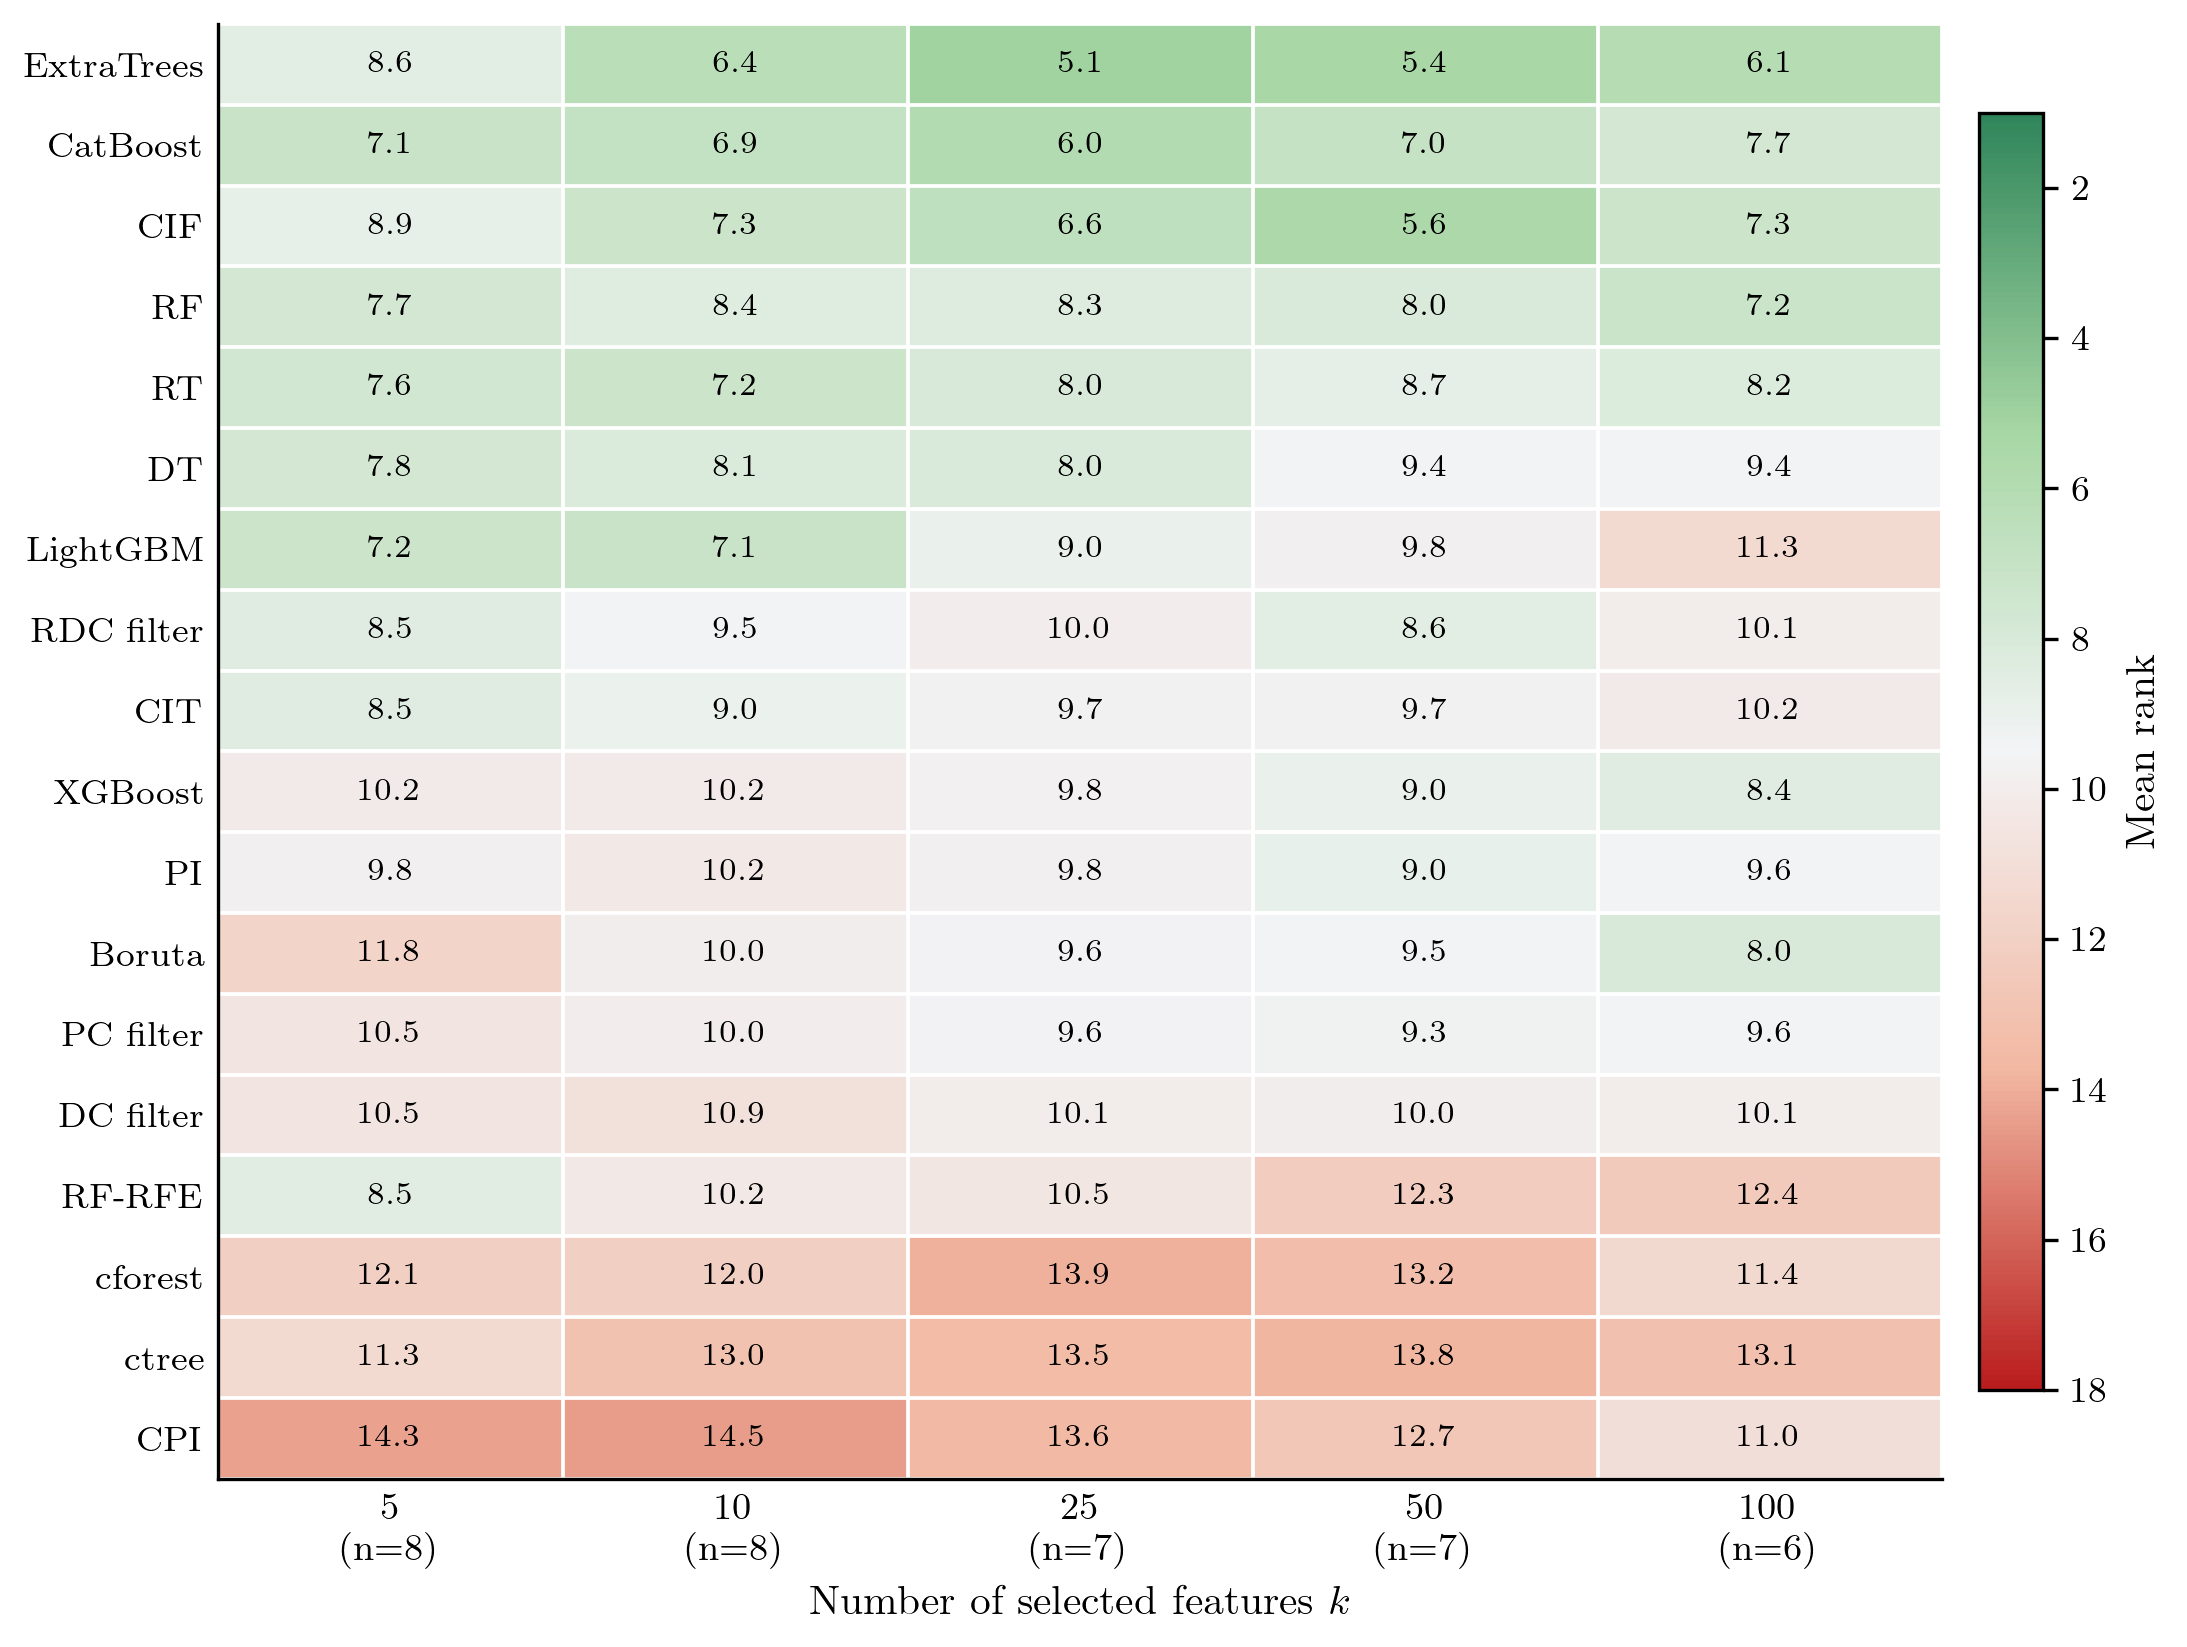
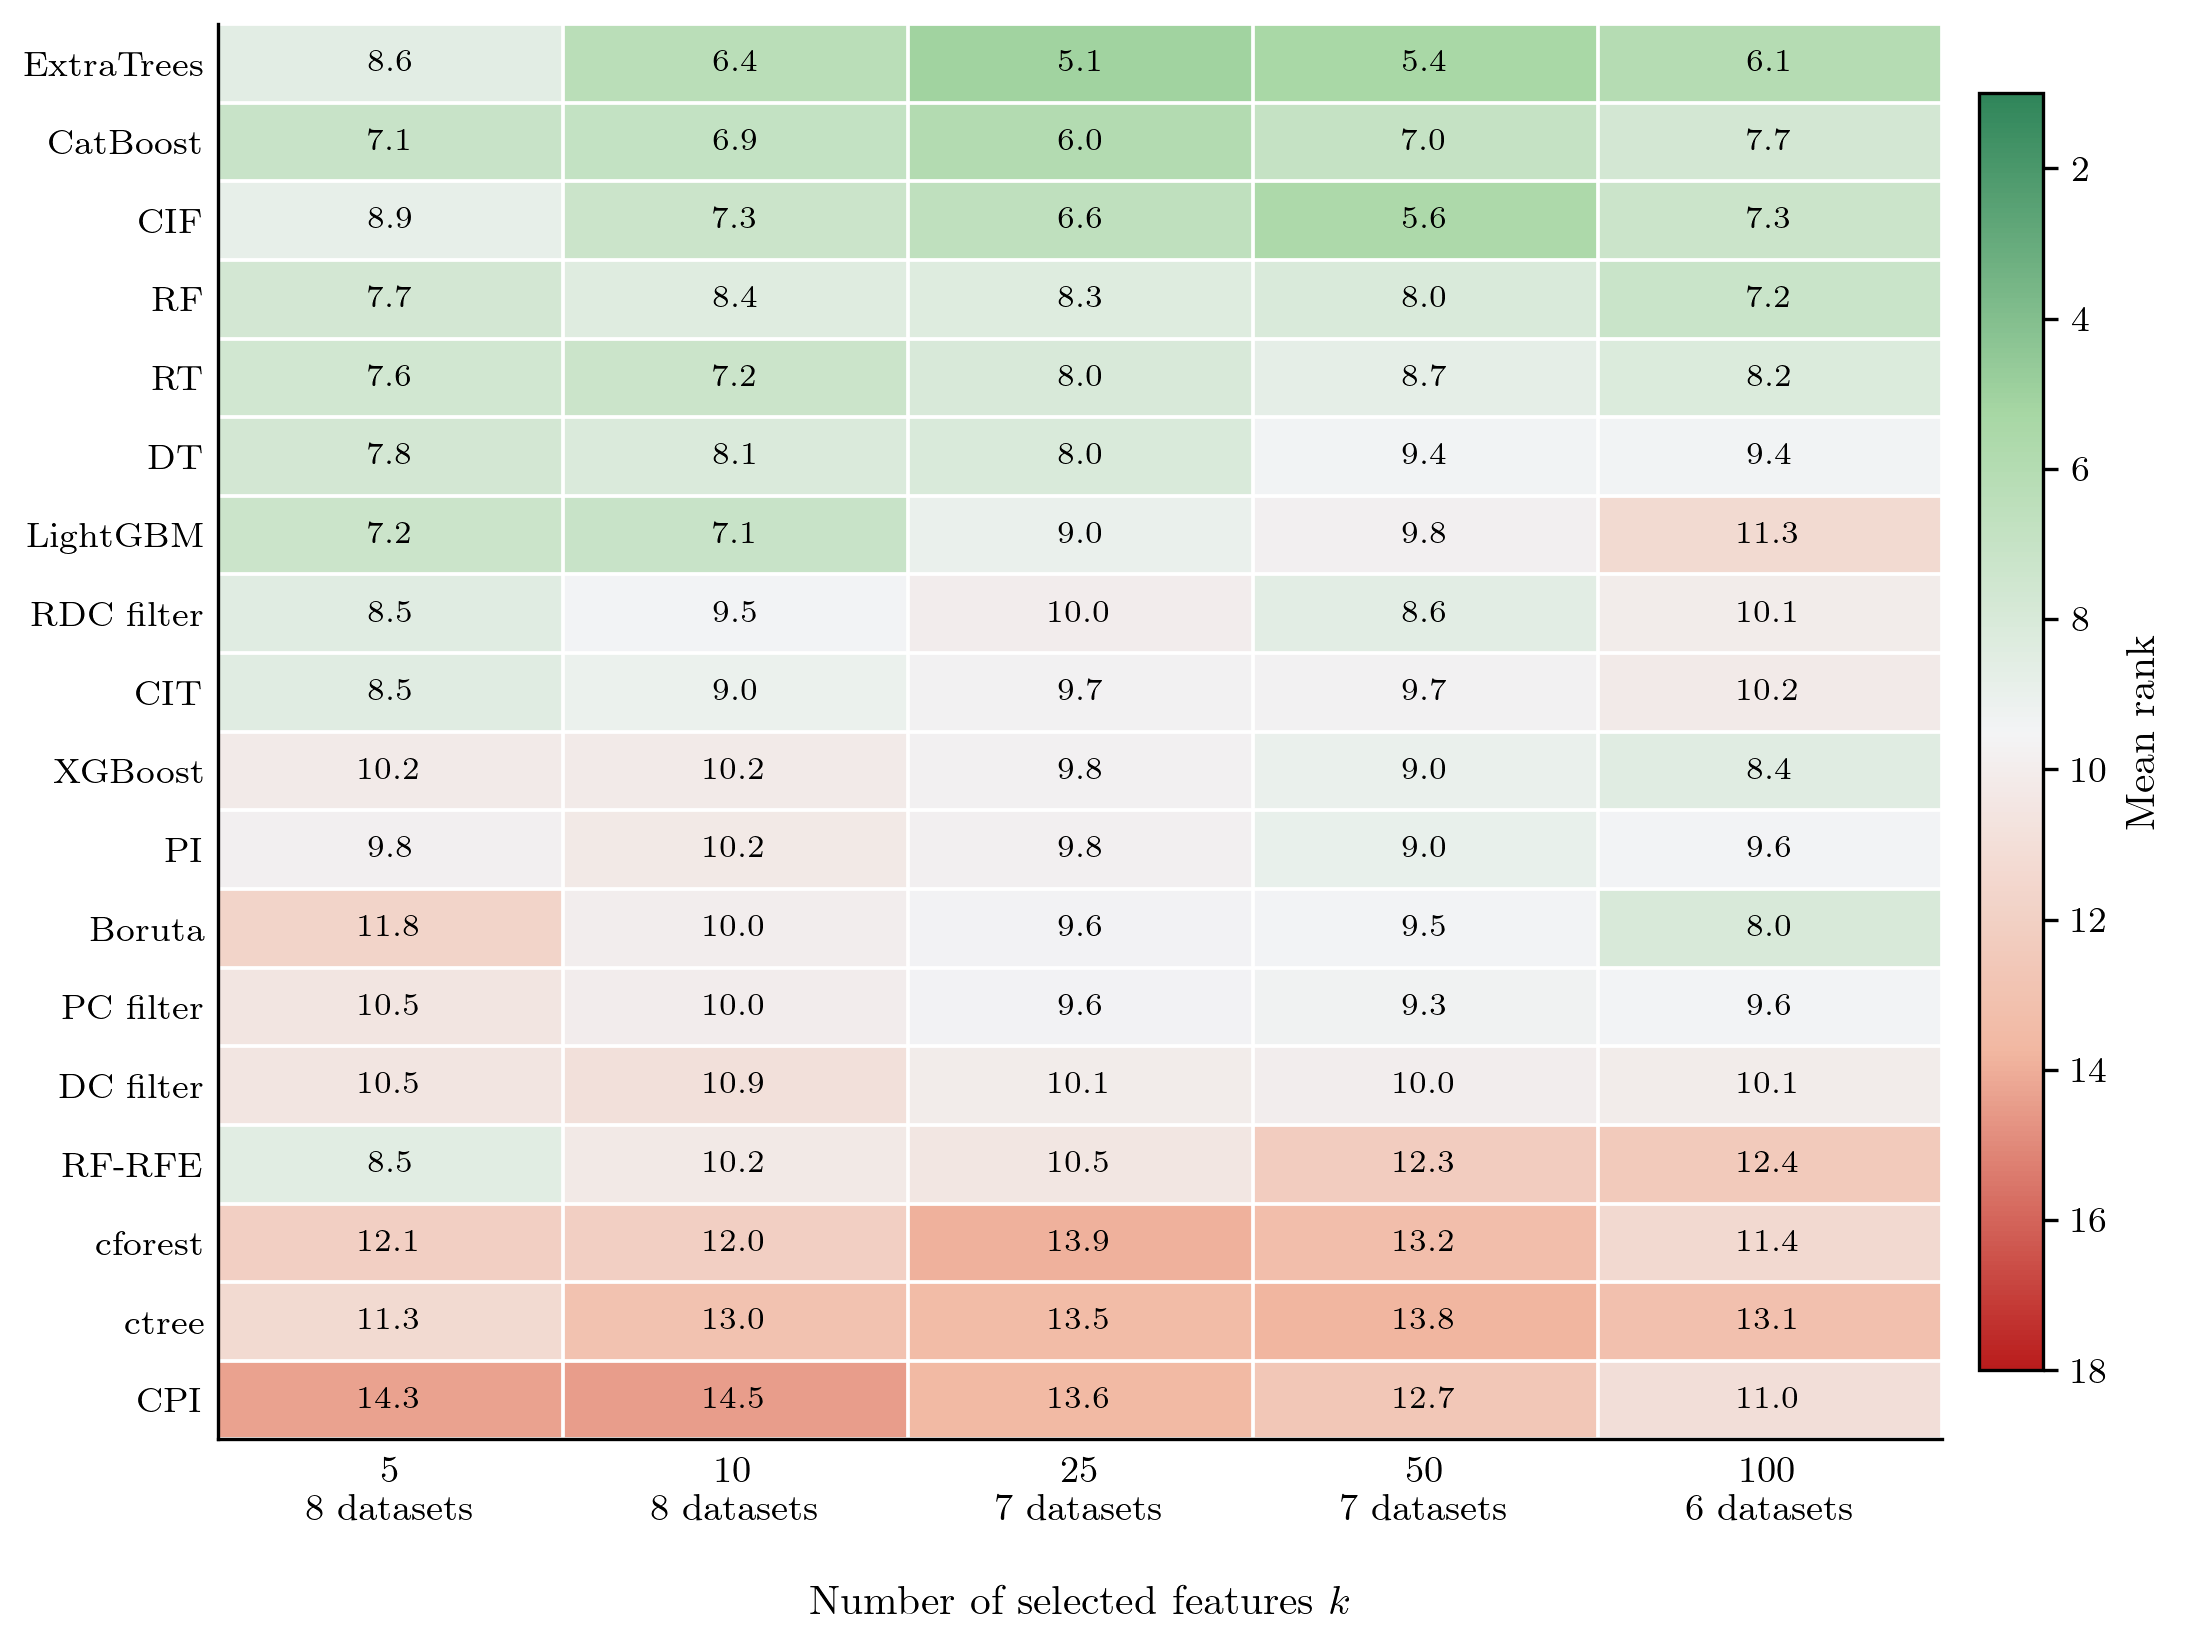
Polish arXiv manuscript and package

diff --git a/paper/arxiv/sections/05_results.tex b/paper/arxiv/sections/05_results.tex
@@ -142,9 +142,9 @@ disabling feature muting, and using one tree.
 
 \FloatBarrier
 
-Table~\ref{tab:cif-ranking-ablation} shows that reducing CIF to one tree has the
-largest effect: $-0.061$ balanced accuracy in classification and $-0.552$ $R^2$
-in regression. Replacing fitted split importance with split counts changes the
+Reducing CIF to one tree has the largest effect: $-0.061$ balanced accuracy in
+classification and $-0.552$ $R^2$ in regression. Replacing fitted split
+importance with split counts changes the
 mean score by $-0.003$ in classification and $-0.022$ in regression, with
 intervals that include zero. Disabling feature muting changes both tasks by
 $+0.000$, while disabling bootstrap sampling changes classification by $+0.001$
@@ -166,36 +166,8 @@ regression configuration in 5 of 6 holdouts.
 \Cref{tab:cif-ci-comparisons,tab:lodo-config-sensitivity}
 give the confidence intervals and LODO details.
 
-\begin{figure}[t]
-  \centering
-  \includegraphics[width=0.78\linewidth]{figures/k_trajectory.png}
-  \caption{Classification mean rank by number of selected features. Rows show
-  all 17 feature selection methods in the classification benchmark, averaged
-  across downstream models at each value of $k$. Lower ranks are better.
-  Parenthesized counts show the number of datasets with observed scores.}
-  \label{fig:k-trajectory}
-\end{figure}
-
-\begin{figure}[t]
-  \centering
-  \includegraphics[width=0.78\linewidth]{figures/regression_k_trajectory.png}
-  \caption{Regression mean rank by number of selected features. Rows show all
-  18 feature selection methods in the regression benchmark, averaged across
-  downstream models at each value of $k$. Lower ranks are better.
-  Parenthesized counts show the number of datasets with observed scores.}
-  \label{fig:regression-k-trajectory}
-\end{figure}
-
-\Cref{fig:k-trajectory,fig:regression-k-trajectory} report mean rank separately
-by $k$ and show the dataset count behind each column. In classification, CIF's
-mean rank is 6.2 at $k=5$, 7.4 at $k=10$, 5.5 at $k=50$, and 5.0 at $k=100$.
-In regression, CIF's mean rank is 8.9 at $k=5$, 5.6 at $k=50$, and 7.3 at
-$k=100$. These by-$k$ results add context to
-\Cref{tab:method-main-comparison}: CIF is strongest at larger displayed $k$
-values in classification and at $k=50$ in regression. The aggregate ctree and
-cforest comparisons use 22 classification datasets; the figures use the counts
-shown in each column. Complete-case analyses use 14 classification datasets and
-6 regression datasets.
+\Cref{tab:cif-breadth-summary} reports how often CIF appears in the top half or
+top 3 and how often it beats tree baselines.
 
 \begin{table}[H]
   \centering
@@ -222,14 +194,48 @@ shown in each column. Complete-case analyses use 14 classification datasets and
   \label{tab:cif-breadth-summary}
 \end{table}
 
-\Cref{tab:cif-breadth-summary} reports how often CIF appears in the top half or
-top 3 and how often it beats tree baselines. In classification, CIF is in the top
-half on 21 of the 22 datasets with ctree and cforest results, and in the top 3
-on 5 of 22. In regression, CIF is in the top half on 6 of 8 datasets and in the
-top 3 on 2 of 8. Against the greedy single-tree baselines, CIF beats DT on 14/23
-classification datasets and 6/8 regression datasets, and beats RT on 21/23
-classification datasets. The RT regression comparison is close: CIF is ahead on
-5/8 datasets, with a mean difference near zero.
+In classification, CIF is in the top half on 21 of the 22 datasets with ctree
+and cforest results, and in the top 3 on 5 of 22. In regression, CIF is in the
+top half on 6 of 8 datasets and in the top 3 on 2 of 8. Against the greedy
+single-tree baselines, CIF beats DT on 14/23 classification datasets and 6/8
+regression datasets, and beats RT on 21/23 classification datasets. The RT
+regression comparison is close: CIF is ahead on 5/8 datasets, with a mean
+difference near zero.
+
+\Cref{fig:k-trajectory,fig:regression-k-trajectory} report mean rank separately
+by $k$. In classification, CIF's mean rank is 6.2 at $k=5$, 7.4 at $k=10$,
+5.5 at $k=50$, and 5.0 at $k=100$.
+In regression, CIF's mean rank is 8.9 at $k=5$, 5.6 at $k=50$, and 7.3 at
+$k=100$. These by-$k$ results add context to
+\Cref{tab:method-main-comparison}: CIF is strongest at larger displayed $k$
+values in classification and at $k=50$ in regression. The aggregate ctree and
+cforest comparisons use 22 classification datasets. For $k=5,10,25,50,100$,
+the classification columns use 22, 21, 15, 15, and 14 datasets, respectively;
+the regression columns use 8, 8, 7, 7, and 6 datasets, respectively.
+Complete-case analyses use 14 classification datasets and 6 regression datasets.
+
+\FloatBarrier
+
+\begin{figure}[H]
+  \centering
+  \includegraphics[width=0.86\linewidth]{figures/classification_k_trajectory.png}
+  \caption{Classification mean rank by number of selected features. Rows show
+  all 17 feature selection methods in the classification benchmark, averaged
+  across downstream models at each value of $k$. Lower ranks are better.
+  The columns for $k=5,10,25,50,100$ use 22, 21, 15, 15, and 14 datasets,
+  respectively.}
+  \label{fig:k-trajectory}
+\end{figure}
+
+\begin{figure}[H]
+  \centering
+  \includegraphics[width=0.86\linewidth]{figures/regression_k_trajectory.png}
+  \caption{Regression mean rank by number of selected features. Rows show all
+  18 feature selection methods in the regression benchmark, averaged across
+  downstream models at each value of $k$. Lower ranks are better. The columns
+  for $k=5,10,25,50,100$ use 8, 8, 7, 7, and 6 datasets, respectively.}
+  \label{fig:regression-k-trajectory}
+\end{figure}
 
 \FloatBarrier
 
@@ -328,13 +334,19 @@ reaches its best score at an intermediate value of $k$ ($100 < k < p$) in 30 of 
 dataset-learner combinations. It first reaches its best score at the full
 feature set ($k=p$) in only 5 of 45 combinations.
 \Cref{fig:high-p-boundary} shows this pattern by downstream learner; regression
-is summarized after the figure. Classification scores most often peak at
+is summarized next. Classification scores most often peak at
 intermediate $k$: 11 of 15 LR datasets, 9 of 15 SVM datasets, and 10 of 15 KNN
 datasets. The full feature set is mainly an LR exception. Moving from $k{=}100$
 to $k{=}p$ gives a mean $k{=}p$ minus $k{=}100$ score change of $+0.022$ for LR,
 and $k=p$ matches the best observed LR score in 6 of 15 datasets. For SVM and
 KNN, the corresponding mean changes are $-0.058$ and $-0.075$, and $k=p$ is
 best in only 1 of 15 datasets for each learner.
+
+In the 6 high-$p$ regression datasets, full-feature evaluation is rarely best.
+Across the 18 dataset-learner combinations, 11 peak at or below $k{=}100$, only
+2 peak at $k=p$, and the mean $k{=}p$ minus $k{=}100$ score change is $-0.308$.
+The main full-feature exception remains the classification LR result in
+\Cref{fig:high-p-boundary}.
 
 \begin{figure}[H]
   \centering
@@ -346,12 +358,6 @@ best in only 1 of 15 datasets for each learner.
   change from $k{=}100$ to $k{=}p$.}
   \label{fig:high-p-boundary}
 \end{figure}
-
-In the 6 high-$p$ regression datasets, full-feature evaluation is rarely best.
-Across the 18 dataset-learner combinations, 11 peak at or below $k{=}100$, only
-2 peak at $k=p$, and the mean $k{=}p$ minus $k{=}100$ score change is $-0.308$.
-The main full-feature exception remains the classification LR result in
-\Cref{fig:high-p-boundary}.
 
 \paragraph{Synthetic feature recovery.}
 Across synthetic classification datasets, 34\% of the features in CIF's top-$k$
@@ -438,3 +444,5 @@ feature at a node, Stage~A selects from that subset.
   y-axis range because counts differ across methods.}
   \label{fig:candidate-forest-counts}
 \end{figure}
+
+\FloatBarrier

diff --git a/paper/arxiv/sections/02_method.tex b/paper/arxiv/sections/02_method.tex
@@ -103,6 +103,28 @@ for the benchmarked CIT and CIF configurations, stores two values at each split:
 the Stage~A permutation $p$-value for the selected feature and the Stage~B
 permutation $p$-value for the selected threshold.
 
+\subsection{Monte Carlo permutation \texorpdfstring{$p$}{p}-values}
+\label{sec:plusone}
+
+Let $T_{\mathrm{obs}}$ be the observed statistic and $T_1,\dots,T_B$ the same statistic
+computed on $B$ random label permutations. For a right tail test we use the
+Phipson--Smyth $+1$ $p$-value
+\citep{NorthCurtisSham2002EmpiricalPValuesMonteCarlo,PhipsonSmyth2010PermutationPValues},
+where $\ind\{\cdot\}$ denotes the indicator function:
+%
+\begin{equation}
+  p_{\mathrm{MC}}^{\ge} := \frac{1 + \sum_{b=1}^B \ind\{T_b \ge T_{\mathrm{obs}}\}}{B+1}.
+\end{equation}
+%
+For a left tail test we analogously define
+%
+\begin{equation}
+  p_{\mathrm{MC}}^{\le} := \frac{1 + \sum_{b=1}^B \ind\{T_b \le T_{\mathrm{obs}}\}}{B+1}.
+\end{equation}
+%
+Stage~A uses the right tail convention and Stage~B the left tail convention;
+ties count as exceedances in both cases.
+
 \begin{algorithm}[H]
   \caption{Conditional inference tree training skeleton (Stage~A $\rightarrow$ Stage~B)}
   \label{alg:citree}
@@ -136,28 +158,6 @@ permutation $p$-value for the selected threshold.
     \EndFunction
   \end{algorithmic}
 \end{algorithm}
-
-\subsection{Monte Carlo permutation \texorpdfstring{$p$}{p}-values}
-\label{sec:plusone}
-
-Let $T_{\mathrm{obs}}$ be the observed statistic and $T_1,\dots,T_B$ the same statistic
-computed on $B$ random label permutations. For a right tail test we use the
-Phipson--Smyth $+1$ $p$-value
-\citep{NorthCurtisSham2002EmpiricalPValuesMonteCarlo,PhipsonSmyth2010PermutationPValues},
-where $\ind\{\cdot\}$ denotes the indicator function:
-%
-\begin{equation}
-  p_{\mathrm{MC}}^{\ge} := \frac{1 + \sum_{b=1}^B \ind\{T_b \ge T_{\mathrm{obs}}\}}{B+1}.
-\end{equation}
-%
-For a left tail test we analogously define
-%
-\begin{equation}
-  p_{\mathrm{MC}}^{\le} := \frac{1 + \sum_{b=1}^B \ind\{T_b \le T_{\mathrm{obs}}\}}{B+1}.
-\end{equation}
-%
-Stage~A uses the right tail convention and Stage~B the left tail convention;
-ties count as exceedances in both cases.
 
 \subsection{Forests and runtime hyperparameters}
 \label{sec:bootstrap}

diff --git a/paper/scripts/analysis/build_arxiv_source_bundle.py b/paper/scripts/analysis/build_arxiv_source_bundle.py
@@ -11,7 +11,7 @@ from pathlib import Path
 ROOT = Path(__file__).resolve().parents[3]
 ARXIV_DIR = ROOT / "paper" / "arxiv"
 DEFAULT_OUT = ARXIV_DIR / "build" / "citrees-arxiv-source.zip"
-STATIC_FILES = ("main.tex", "macros.tex", "references.bib", "main.bbl")
+STATIC_FILES = ("main.tex", "macros.tex", "references.bib")
 INCLUDEGRAPHICS_RE = re.compile(r"\\includegraphics(?:\[[^\]]*\])?\{([^}]+)\}")
 ZIP_TIMESTAMP = (1980, 1, 1, 0, 0, 0)
 ZIP_FILE_MODE = 0o644
@@ -44,17 +44,14 @@ def collect_referenced_figures() -> list[Path]:
     return sorted(figures)
 
 
-def bundle_members(*, require_bbl: bool = True) -> list[Path]:
+def bundle_members() -> list[Path]:
     """Return arXiv-relative files included in the source bundle."""
     members: set[Path] = set()
     for relname in STATIC_FILES:
         path = ARXIV_DIR / relname
-        if (require_bbl or relname != "main.bbl") and not path.exists():
-            raise FileNotFoundError(
-                f"Missing {path.relative_to(ROOT)}. Run latexmk or this script without --skip-build."
-            )
-        if path.exists():
-            members.add(path)
+        if not path.exists():
+            raise FileNotFoundError(f"Missing {path.relative_to(ROOT)}.")
+        members.add(path)
 
     members.update(tex_sources())
     members.update(collect_referenced_figures())
@@ -72,7 +69,7 @@ def build_pdf() -> None:
 
 def write_bundle(out_path: Path) -> list[Path]:
     """Write the source bundle and return included members."""
-    members = bundle_members(require_bbl=True)
+    members = bundle_members()
     out_path.parent.mkdir(parents=True, exist_ok=True)
     with zipfile.ZipFile(out_path, "w", compression=zipfile.ZIP_DEFLATED, compresslevel=9) as archive:
         for path in members:
@@ -94,7 +91,7 @@ def main() -> None:
     if not args.skip_build:
         build_pdf()
 
-    members = bundle_members(require_bbl=True)
+    members = bundle_members()
     if args.check:
         for path in members:
             print(path.relative_to(ARXIV_DIR).as_posix())

diff --git a/paper/scripts/analysis/fig_benchmark_k_trajectory.py b/paper/scripts/analysis/fig_benchmark_k_trajectory.py
@@ -43,8 +43,8 @@ TASKS: Final[tuple[TaskPlotConfig, ...]] = (
         task="classification",
         metric="balanced_accuracy",
         expected_n_methods=17,
-        output_name="k_trajectory.png",
-        table_name="k_trajectory_ranks.csv",
+        output_name="classification_k_trajectory.png",
+        table_name="classification_k_trajectory_ranks.csv",
     ),
     TaskPlotConfig(
         task="regression",
@@ -165,13 +165,14 @@ def _render_heatmap(config: TaskPlotConfig, ranks: pd.DataFrame, support: dict[i
     image = ax.imshow(values, cmap=RANK_CMAP, aspect="auto", vmin=1, vmax=config.expected_n_methods)
     _annotate_heatmap(ax, values)
 
-    x_labels = [f"{k}\n(n={support[k]})" for k in STANDARD_K]
+    x_labels = [f"{k}\n{support[k]} datasets" for k in STANDARD_K]
     y_labels = [DISPLAY_NAMES[method] for method in ranks.index]
     ax.set_xticks(np.arange(len(STANDARD_K)), labels=x_labels)
     ax.set_yticks(np.arange(len(ranks.index)), labels=y_labels)
-    ax.set_xlabel("Number of selected features $k$")
+    ax.set_xlabel("Number of selected features $k$", labelpad=14)
     ax.set_ylabel("")
-    ax.tick_params(axis="both", length=0)
+    ax.tick_params(axis="x", length=0, pad=4)
+    ax.tick_params(axis="y", length=0)
     ax.set_xticks(np.arange(-0.5, len(STANDARD_K), 1), minor=True)
     ax.set_yticks(np.arange(-0.5, len(ranks.index), 1), minor=True)
     ax.grid(which="minor", color="white", linestyle="-", linewidth=0.9)

diff --git a/paper/arxiv/appendices/appendix_G_benchmark_stability.tex b/paper/arxiv/appendices/appendix_G_benchmark_stability.tex
@@ -88,7 +88,7 @@ main-benchmark configuration in all 14 classification holdouts. In regression, i
 two configurations, reselects the global regression configuration in 5 of 6 holdouts, and
 ties CatBoost for second by mean LODO rank behind ExtraTrees.
 
-\begin{table}[H]
+\begin{table}[!htbp]
   \centering
   \fontsize{8}{9.1}\selectfont
   \setlength{\tabcolsep}{3pt}

diff --git a/paper/arxiv/README.md b/paper/arxiv/README.md
@@ -29,13 +29,12 @@ Source bundle contents for submission:
 - `main.tex`
 - `macros.tex`
 - `references.bib`
-- `main.bbl`
 - `sections/`
 - `appendices/`
 - referenced figures:
   - `figures/benchmark_pairwise_sensitivity.png`
   - `figures/high_p_boundary_summary.png`
-  - `figures/k_trajectory.png`
+  - `figures/classification_k_trajectory.png`
   - `figures/paper_mechanism_grid_forest_classification_dimension_curves_1000trees.png`
   - `figures/paper_mechanism_grid_forest_classification_feature_counts_p1000_i2_1000trees.png`
   - `figures/paper_mechanism_grid_forest_regression_dimension_curves_1000trees.png`
@@ -50,6 +49,6 @@ outputs. From the repository root, build the deterministic source bundle with:
 UV_CACHE_DIR=./scratch/.uv_cache uv run python paper/scripts/analysis/build_arxiv_source_bundle.py
 ```
 
-The bundler rebuilds the manuscript, includes the generated `main.bbl`, copies
-only the files above, and excludes scratch, PDF, unused figures, and LaTeX
-build products.
+The bundler rebuilds the manuscript, copies only the files above, and excludes
+scratch, PDF, unused figures, `main.bbl`, and LaTeX build products. arXiv
+regenerates the bibliography from `references.bib`.

diff --git a/paper/results/tables/README.md b/paper/results/tables/README.md
@@ -26,7 +26,7 @@ These are the tables intended for current manuscript and support-doc use:
 - `paper_benchmark_lodo_aggregate.csv` - leave-one-dataset-out aggregate sensitivity summary
 - `paper_benchmark_lodo_config_stability.csv` - leave-one-dataset-out selected-config stability summary
 - `paper_benchmark_spread.csv`
-- `k_trajectory_ranks.csv` - classification rank-by-k matrix used by the main-text trajectory figure
+- `classification_k_trajectory_ranks.csv` - classification rank-by-k matrix used by the main-text trajectory figure
 - `regression_k_trajectory_ranks.csv` - regression rank-by-k matrix used by the main-text trajectory figure
 - `paper_benchmark_pairwise_aggregate.csv` - directed all-vs-all method comparisons; the `baseline` column is the compared method, not a restricted baseline set
 - `paper_benchmark_pairwise_stratified.csv` - directed all-vs-all comparisons by downstream model and number of selected features; the `baseline` column is the compared method